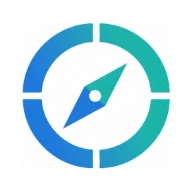
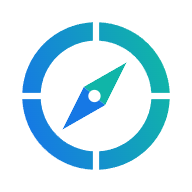
index

diff --git a/src/components/BrandLogo.tsx b/src/components/BrandLogo.tsx
@@ -1,33 +1,67 @@
-import artworkGeometry from '@/data/brandArtwork.json';
-
-/** The supplied artwork is kept byte-for-byte; viewports only control its layout.
- * The compact lockup uses the original compass and lettering, never retyped text.
- * BASE_URL works both under GitHub Pages /Q-pro/ and the relative mobile build.
- */
-const logoUrl = `${import.meta.env?.BASE_URL ?? '/'}branding/specialty-match-logo.png`;
+import { useId } from 'react';
+import artwork from '@/data/brandArtwork.json';
 
 interface BrandLogoProps {
   className?: string;
   variant?: 'horizontal' | 'stacked' | 'mark';
+  tone?: 'default' | 'inverse';
   label?: string;
 }
 
-export default function BrandLogo({ className = 'w-44', variant = 'horizontal', label = 'Specialty Match' }: BrandLogoProps) {
-  const artwork = <image href={logoUrl} width={artworkGeometry.width} height={artworkGeometry.height} />;
+/** True vector artwork: transparent at every size, with no bitmap or font download
+ * needed for the compass. Unique IDs keep multiple instances independent.
+ */
+export default function BrandLogo({ className = 'w-44', variant = 'horizontal', tone = 'default', label = 'Specialty Match' }: BrandLogoProps) {
+  const id = useId().replace(/:/g, '');
+  const gradientId = `brand-gradient-${id}`;
+  const needleId = `brand-needle-${id}`;
+  const inverse = tone === 'inverse';
+  const markSize = variant === 'stacked' ? 156 : variant === 'mark' ? 100 : 64;
+
   return (
     <svg
       data-brand-logo={variant}
+      data-brand-tone={tone}
       role="img"
       aria-label={label}
       focusable="false"
-      viewBox={variant === 'horizontal' ? '0 0 354 64' : variant === 'mark' ? artworkGeometry.markViewBox : '100 282 1054 688'}
-      className={`block h-auto max-w-full shrink-0 mix-blend-multiply ${className}`}
+      viewBox={variant === 'horizontal' ? '0 0 354 64' : variant === 'mark' ? artwork.markViewBox : '0 0 354 218'}
+      className={`block h-auto max-w-full shrink-0 ${className}`}
       xmlns="http://www.w3.org/2000/svg"
     >
-      {variant === 'horizontal' ? <>
-        <svg x="0" y="0" width="64" height="64" viewBox={artworkGeometry.markViewBox} overflow="hidden" aria-hidden="true">{artwork}</svg>
-        <svg x="78" y="11" width="276" height="42" viewBox="100 808 1054 162" overflow="hidden" aria-hidden="true">{artwork}</svg>
-      </> : artwork}
+      <defs>
+        <linearGradient id={gradientId} x1="2" y1="65" x2="98" y2="35" gradientUnits="userSpaceOnUse">
+          <stop stopColor={artwork.blue} />
+          <stop offset="1" stopColor={artwork.teal} />
+        </linearGradient>
+        <mask id={needleId} maskUnits="userSpaceOnUse" x="0" y="0" width="100" height="100">
+          <path d={`${artwork.northPath} ${artwork.southPath}`} fill="white" />
+          <circle cx="49" cy="50" r="4" fill="black" />
+        </mask>
+      </defs>
+      <svg x={variant === 'stacked' ? 99 : 0} y="0" width={markSize} height={markSize} viewBox={artwork.markViewBox} aria-hidden="true">
+        <path d={artwork.ringPath} fill={`url(#${gradientId})`} />
+        <g mask={`url(#${needleId})`}>
+          <path d={artwork.northPath} fill={artwork.teal} />
+          <path d={artwork.southPath} fill={artwork.blue} />
+        </g>
+      </svg>
+      {variant !== 'mark' && (
+        <text
+          x={variant === 'stacked' ? 2 : 78}
+          y={variant === 'stacked' ? 207 : 44}
+          fontFamily="Inter, system-ui, sans-serif"
+          fontSize={variant === 'stacked' ? 42 : 34}
+          fontWeight="600"
+          letterSpacing="-1.1"
+          textLength={variant === 'stacked' ? 350 : 274}
+          lengthAdjust="spacingAndGlyphs"
+          aria-hidden="true"
+        >
+          <tspan fill={inverse ? '#ffffff' : artwork.wordBlue}>Specialty</tspan>
+          <tspan fill={inverse ? '#5eead4' : artwork.wordTeal}> Match</tspan>
+        </text>
+      )}
     </svg>
   );
 }

diff --git a/src/components/DashboardSidebar.tsx b/src/components/DashboardSidebar.tsx
@@ -67,9 +67,7 @@ export default function DashboardSidebar({
       <div className="flex h-full flex-col overflow-y-auto p-5 scrollbar-thin sm:p-6">
         <div className="flex items-start justify-between gap-4">
           <div className="min-w-0 flex-1">
-            <div className="rounded-xl bg-white p-3 shadow-soft">
-              <BrandLogo className="w-full" />
-            </div>
+            <BrandLogo className="w-full max-w-52" tone="inverse" />
             <p className="mt-3 text-xs text-brand-200">
               {french ? 'Portail de recherche' : romanian ? 'Portal de cercetare' : 'Research portal'}
             </p>

diff --git a/index.html b/index.html
@@ -6,6 +6,7 @@
     <link rel="icon" type="image/x-icon" href="/branding/favicon.ico" />
     <link rel="icon" type="image/png" sizes="32x32" href="/branding/favicon-32.png" />
     <link rel="icon" type="image/png" sizes="16x16" href="/branding/favicon-16.png" />
+    <link rel="icon" type="image/svg+xml" sizes="any" href="/branding/compass.svg" />
     <link rel="apple-touch-icon" sizes="180x180" href="/branding/apple-touch-icon.png" />
     <link rel="manifest" href="/manifest.webmanifest" />
     <link rel="preconnect" href="https://fonts.googleapis.com" />
